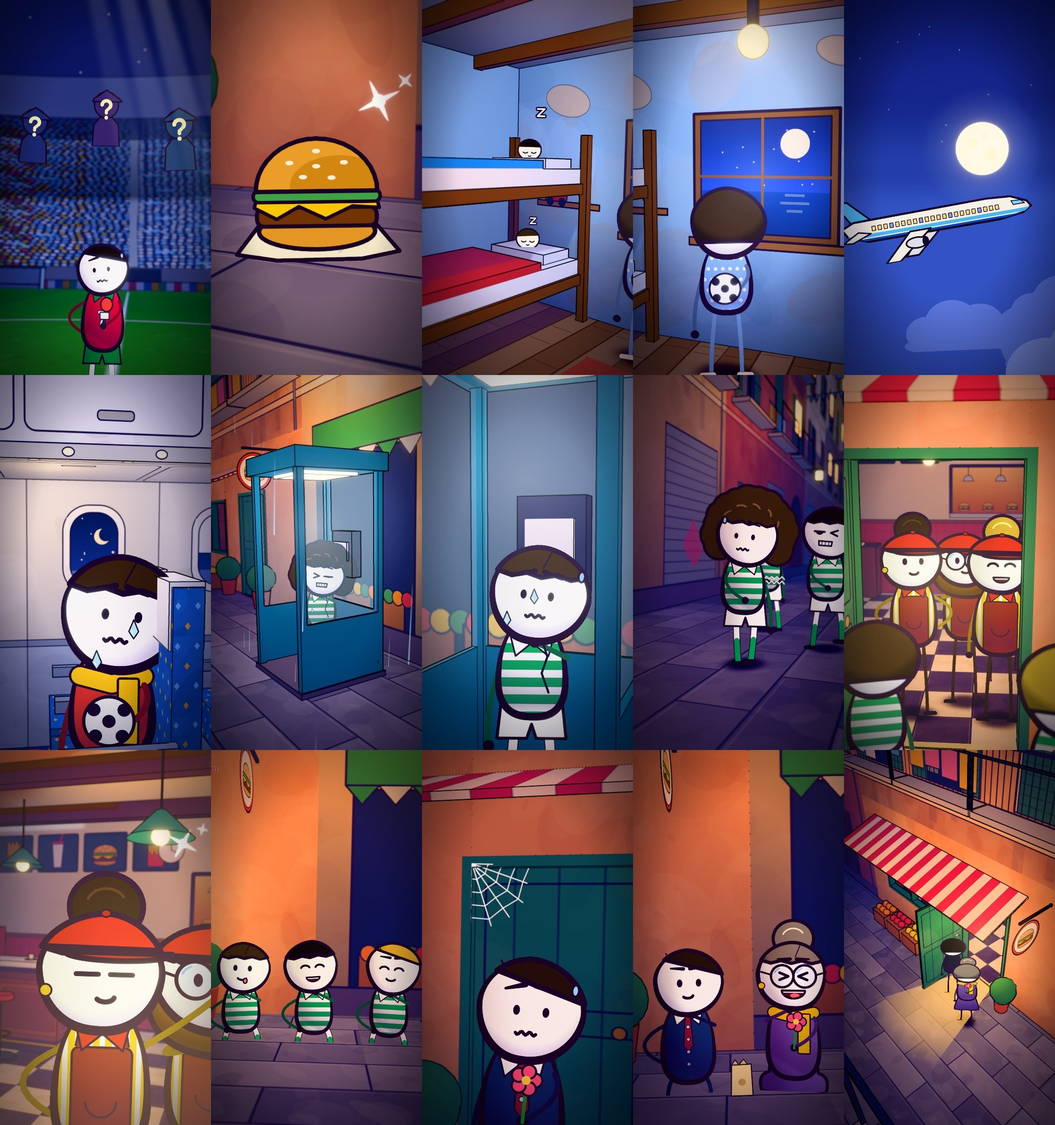
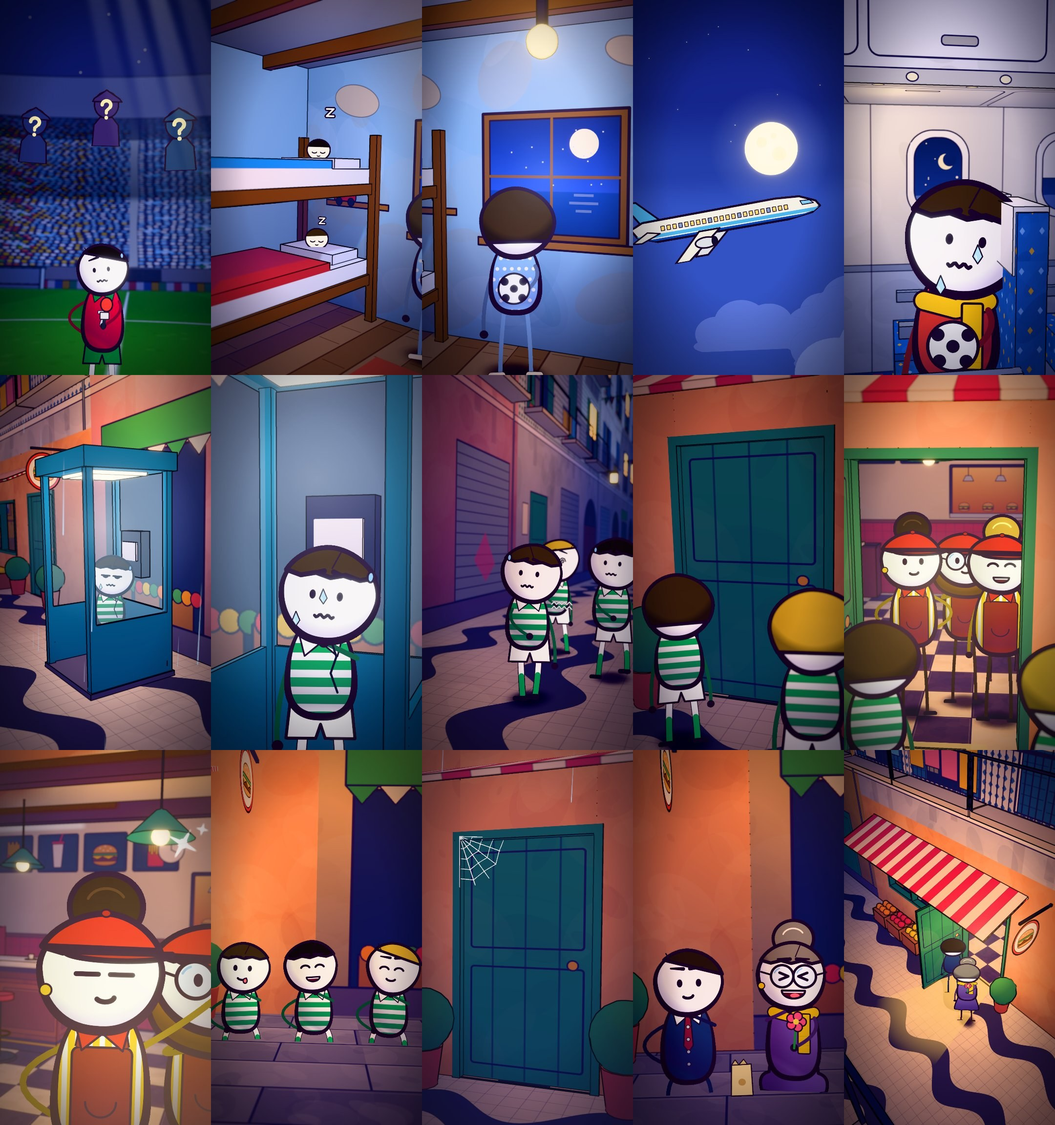
Back-door short: the street repainted as Lisbon
Claude-Session: https://claude.ai/code/session_01XzQyjkfXZpj5oCSZN69xLZ

diff --git a/examples/back-door/src/c/paint4.ts b/examples/back-door/src/c/paint4.ts
@@ -46,3 +46,23 @@ PAINT.roomBack = { w: 1760, h: 1000, draw: (g, r) => {
   g.fillStyle = vgrad(g, 600, 1000, "rgba(40,20,60,0)", "rgba(40,20,60,0.3)"); g.fillRect(0, 600, 1760, 400);
 } };
 PAINT.roomFloor = { w: 512, h: 512, draw: (g, r) => { g.fillStyle = "#8a6240"; g.fillRect(0, 0, 512, 512); for (let i = 0; i < 6; i++) { g.fillStyle = `rgba(${i % 2 ? "255,220,170" : "50,20,10"},0.12)`; g.fillRect(i * 86, 0, 86, 512); ln(g, [[i * 86, 0], [i * 86, 512]], 5, "rgba(40,20,15,0.6)"); for (let k = 0; k < 3; k++) { const y = r() * 512; ln(g, [[i * 86 + 10, y], [i * 86 + 76, y]], 3, "rgba(40,20,15,0.4)"); } } } };
+
+// ---- the street, repainted as Lisbon: calçada pavement, an azulejo panel at the end of the street, green-and-red bunting ----
+PAINT.paving = { w: 2048, h: 2048, draw: (g, r) => {
+  g.fillStyle = "#d8cfbc"; g.fillRect(0, 0, 2048, 2048); mottle(g, r, 0, 0, 2048, 2048, 60, ["#efe8d8", "#b9b0a0"], 40, 160, 0.3);
+  g.strokeStyle = "rgba(60,50,60,0.28)"; g.lineWidth = 2.5; for (let i = 0; i <= 2048; i += 64) { g.beginPath(); g.moveTo(i + 6 * Math.sin(i), 0); g.lineTo(i - 6 * Math.sin(i), 2048); g.stroke(); g.beginPath(); g.moveTo(0, i); g.lineTo(2048, i + 8 * Math.sin(i * 0.7)); g.stroke(); }
+  for (let k = 0; k < 4; k++) { const y0 = k * 512 + 150; g.beginPath(); for (let x = 0; x <= 2048; x += 16) { const y = y0 + 70 * Math.sin((x / 2048) * Math.PI * 8); if (x) g.lineTo(x, y); else g.moveTo(x, y); } for (let x = 2048; x >= 0; x -= 16) g.lineTo(x, y0 + 150 + 70 * Math.sin((x / 2048) * Math.PI * 8)); g.closePath(); g.fillStyle = "#3a3840"; g.fill(); }
+} };
+PAINT.bunting = { w: 2048, h: 160, draw: (g) => { g.clearRect(0, 0, 2048, 160); ln(g, [[0, 14], [2048, 14]], 6); for (let i = 0; i < 16; i++) pg(g, [[i * 128 + 10, 16], [i * 128 + 118, 16], [i * 128 + 64, 150]], i % 2 ? "#c8302a" : "#2f8a4a", 5); } };
+PAINT.mural = { w: 1008, h: 2340, draw: (g) => {
+  g.fillStyle = "#f4f7fb"; g.fillRect(0, 0, 1008, 2340);
+  for (let y = 0; y < 2340; y += 84) for (let x = 0; x < 1008; x += 84) { g.strokeStyle = "rgba(60,90,150,0.35)"; g.lineWidth = 3; g.strokeRect(x, y, 84, 84); }
+  for (let i = 0; i < 12; i++) for (const y of [42, 2298]) { g.fillStyle = "#3f6fb8"; g.beginPath(); g.arc(42 + i * 84, y, 26, 0, 7); g.fill(); g.fillStyle = "#f4f7fb"; g.beginPath(); g.arc(42 + i * 84, y, 12, 0, 7); g.fill(); }
+  // a caravel on the waves, in tile blue
+  g.fillStyle = "#3f6fb8"; g.strokeStyle = "#24468e"; g.lineWidth = 10;
+  pg(g, [[260, 1500], [760, 1500], [690, 1660], [330, 1660]], "#3f6fb8", 10); ln(g, [[500, 1500], [500, 900]], 18, "#24468e");
+  pg(g, [[520, 930], [760, 1180], [520, 1440]], "#8fb0e0", 10); pg(g, [[480, 980], [300, 1240], [480, 1440]], "#c9d8f0", 10);
+  for (let k = 0; k < 4; k++) { g.beginPath(); for (let x = 60; x <= 948; x += 12) { const y = 1760 + k * 110 + 26 * Math.sin(x / 60 + k); if (x > 60) g.lineTo(x, y); else g.moveTo(x, y); } g.strokeStyle = "#3f6fb8"; g.lineWidth = 14; g.stroke(); }
+  el(g, 760, 620, 70, 70, "#f2c64a", 10);
+  g.fillStyle = vgrad(g, 1700, 2340, "rgba(40,20,60,0)", "rgba(40,20,60,0.25)"); g.fillRect(0, 1700, 1008, 640);
+} };

diff --git a/examples/back-door/src/c/paint2.ts b/examples/back-door/src/c/paint2.ts
@@ -234,7 +234,7 @@ export const PAINT: Record<string, Painter> = {
 };
 
 // ---------------- Naples facades ----------------
-export type FacadeOpt = { wall: string; lite: string; dark: string; shutter: string; shop?: number; seed: number };
+export type FacadeOpt = { wall: string; lite: string; dark: string; shutter: string; shop?: number; seed: number; tile?: [string, string] };
 /** facade wm x hm metres at 200 px/m. glow = true paints only the lit windows (emissive map). */
 export const facadePainter = (wm: number, hm: number, o: FacadeOpt, glow: boolean): Painter => ({ w: Math.round(wm * 200), h: Math.round(hm * 200), draw: (g, r0) => {
   const M = 200, Wp = wm * M, Hp = hm * M, Y = (m: number) => (hm - m) * M;
@@ -242,6 +242,10 @@ export const facadePainter = (wm: number, hm: number, o: FacadeOpt, glow: boolea
   if (glow) { g.fillStyle = "#000"; g.fillRect(0, 0, Wp, Hp); }
   else {
     plaster(g, r0, 0, 0, Wp, Hp, o.wall, o.lite, o.dark);
+    if (o.tile) { // azulejos: small glazed tiles with a diamond motif, above the ground floor
+      const T = 30, y1 = Y(3.95); for (let y = 66; y < y1; y += T) for (let x = 0; x < Wp; x += T) { g.fillStyle = o.tile[0]; g.fillRect(x, y, T - 1.5, T - 1.5); g.fillStyle = o.tile[1]; g.beginPath(); g.moveTo(x + T / 2, y + 5); g.lineTo(x + T - 5, y + T / 2); g.lineTo(x + T / 2, y + T - 5); g.lineTo(x + 5, y + T / 2); g.closePath(); g.fill(); }
+      g.fillStyle = "rgba(30,20,60,0.08)"; g.fillRect(0, 66, Wp, y1 - 66);
+    }
     g.fillStyle = vgrad(g, Y(3.6), Hp, "rgba(40,20,60,0)", "rgba(40,20,60,0.25)"); g.fillRect(0, Y(3.6), Wp, Hp);
   }
   const floors = Math.floor((hm - 4.0) / 3.3), cols = Math.max(1, Math.round(wm / 2.7)), cw = Wp / cols;

diff --git a/examples/back-door/src/c/sets.ts b/examples/back-door/src/c/sets.ts
@@ -79,12 +79,12 @@ export function buildCafe(R: THREE.Object3D): SetRefs {
   return { wallOld, wallNew, shrine, shrineOld, door, doorShut };
 }
 
-const FAC: FacadeOpt[] = [
-  { wall: "#e6a56a", lite: "#f6cf9a", dark: "#b9743e", shutter: "#3f7a5a", seed: 1 },
-  { wall: "#e88a7a", lite: "#f6b8a8", dark: "#b85a50", shutter: "#5a4a3a", seed: 2 },
-  { wall: "#ecd08a", lite: "#f8e8b8", dark: "#c4a45a", shutter: "#3f6a8a", seed: 3 },
-  { wall: "#d9785a", lite: "#f0a88a", dark: "#a8503a", shutter: "#3f7a5a", seed: 4 },
-  { wall: "#f0c0a0", lite: "#fbe0cc", dark: "#c89070", shutter: "#7a4a3a", seed: 5 },
+const FAC: FacadeOpt[] = [ // Lisbon: tiled fronts, ochre, pink, white with coloured shutters
+  { wall: "#e9eef4", lite: "#ffffff", dark: "#9aa8b8", shutter: "#2f5f9a", seed: 1, tile: ["#f4f7fb", "#3f6fb8"] },
+  { wall: "#efc65a", lite: "#fbe6a0", dark: "#c49a3a", shutter: "#2f7a5a", seed: 2 },
+  { wall: "#f0a8a0", lite: "#fbd0c8", dark: "#c07870", shutter: "#7a2f3a", seed: 3 },
+  { wall: "#eef0e4", lite: "#ffffff", dark: "#a8b098", shutter: "#2f7a5a", seed: 4, tile: ["#f4f6ea", "#3f8a5a"] },
+  { wall: "#f6f1e6", lite: "#ffffff", dark: "#b8b0a0", shutter: "#2f5f9a", seed: 5 },
 ];
 const FAC_SEEN = new Set<string>();
 export function buildAlley(R: THREE.Object3D) {
